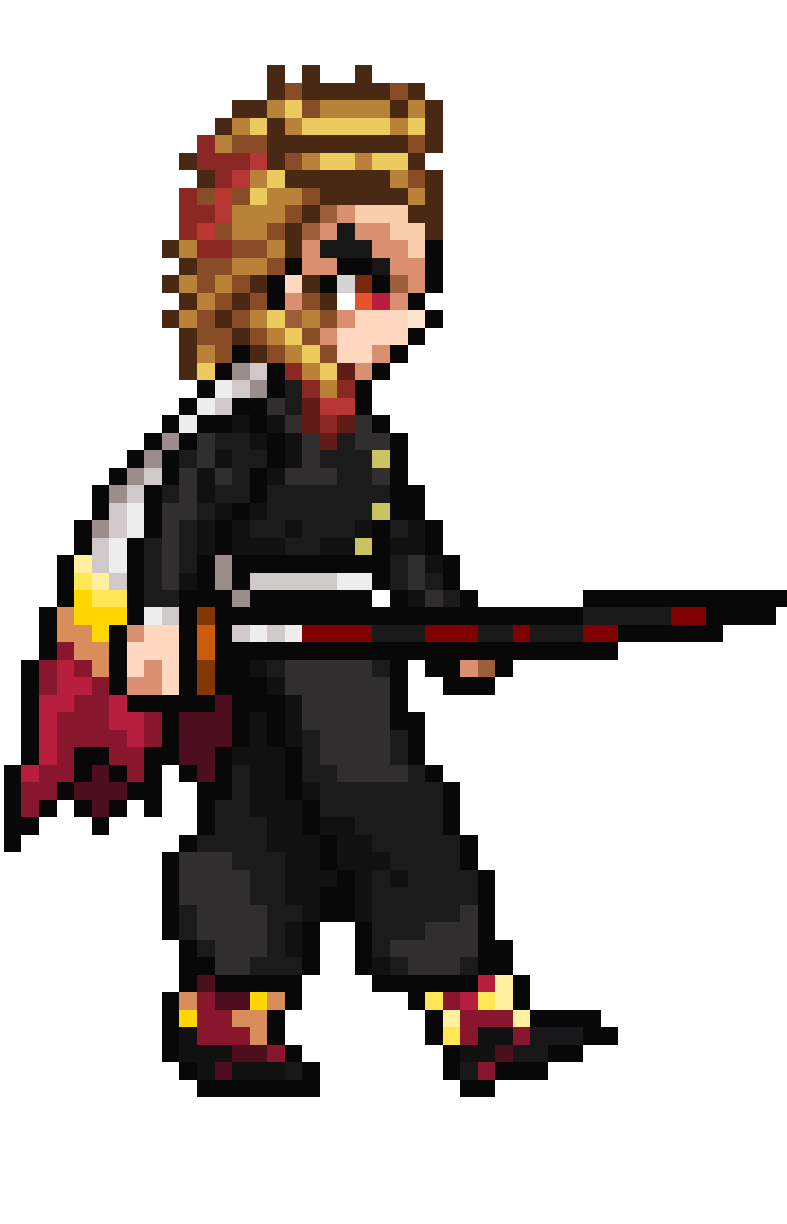
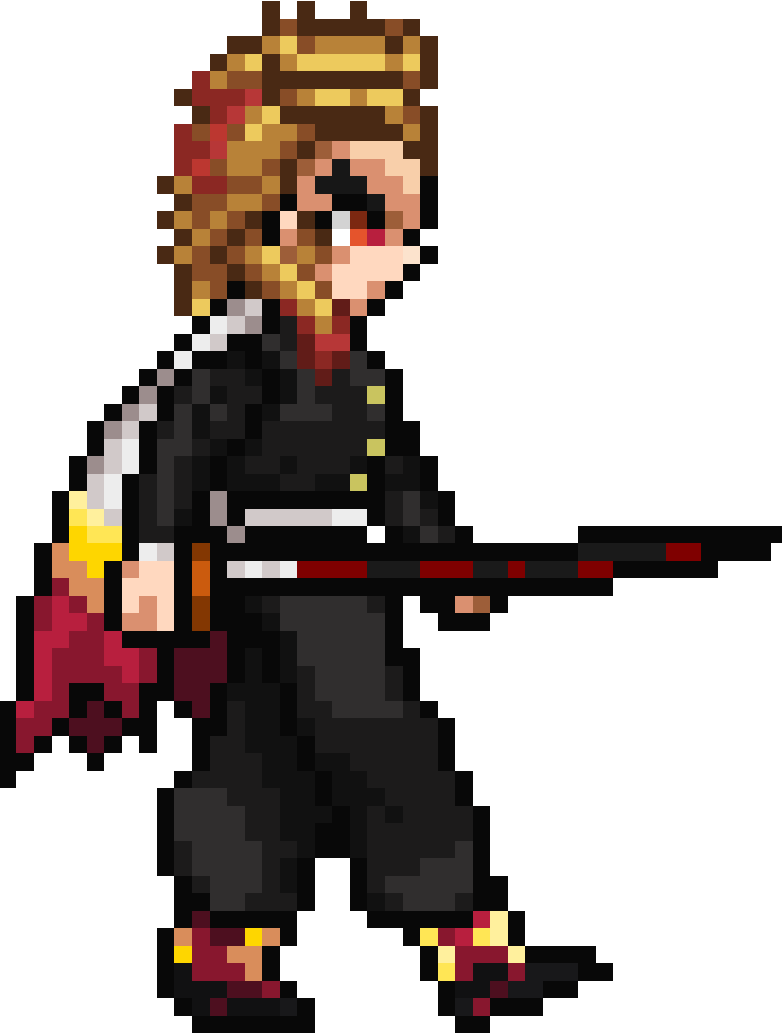
ahmed

Changed region(s): [[0.0, 0.0, 1.0, 1.0], [0.399, 0.6499, 0.491, 0.7118]]

diff --git a/DungeonSlayer.cpp b/DungeonSlayer.cpp
@@ -10,7 +10,21 @@ enum state
 state curr_state = state::idle;
 
 int pagenum = 69;
+char playerstate = 'i';
+/*
 
+     i   idle
+     r   run
+     h   hit
+     b   base
+     z   zmove
+     x   xmove,
+     c   cmove
+     v   vmove
+     d   dead
+     w   walk
+
+*/
 int Player_Health = 100;
 Vector2f velocity = { 0, 0 };
 
@@ -54,7 +68,7 @@ Sprite Room;
 
 // Game functions
 void menu_handler();
-void UpdateAnimationCounter(int maximagecounter);
+void UpdateAnimationCounter(int maximagecounterc);
 void Switch_States();
 void Game_play(RenderWindow& window);
 void update();
@@ -152,21 +166,21 @@ void playerMovement()
    
 }
 
-void setTextures() 
+void setTextures()
 {
     // Menu   
     mainmenubg.loadFromFile("Main Menu.jpg");
     bg.setTexture(mainmenubg);
     bg.setScale(0.5, 0.5);
-    
+
     // Room
     room.loadFromFile("mapV2.png");
     Room.setTexture(room);
     Room.setScale(3.8, 3.333);
-    Room.setOrigin(room.getSize().x/2,room.getSize().y/2 );
-    Room.setPosition(0,178*16);
-    
-    // Player
+    Room.setOrigin(room.getSize().x / 2, room.getSize().y / 2);
+    Room.setPosition(0, 178 * 16);
+
+    //Player
     Idle.loadFromFile("Idle.png");
     Player.setTexture(Idle);
     Player.setScale(0.125, 0.125);
@@ -174,14 +188,17 @@ void setTextures()
     Player.setPosition(-500, 7000);
     for (int i = 0; i < 8; i++) {
         RunAnimation[i].loadFromFile("Run/run" + to_string(i) + ".png");
-    } 
+    }
     for (int i = 0; i < 5; i++) {
         Zmove[i].loadFromFile("Z move/Zmove" + to_string(i) + ".png");
     }
     for (int i = 0; i < 6; i++) {
-       walkAnimation[i].loadFromFile("walk/Walk" + to_string(i) + ".png");
+        walkAnimation[i].loadFromFile("walk/Walk" + to_string(i) + ".png");
     }
 
+    for (int i = 0; i < 5; i++) {
+        BaseAttack[i].loadFromFile("base/Base" + to_string(i) + ".png");
+    }
 }
 
 void checkCollisions()
@@ -219,59 +236,104 @@ void Switch_States()
 
     if ((Keyboard::isKeyPressed(Keyboard::A)  || Keyboard::isKeyPressed(Keyboard::D)  || Keyboard::isKeyPressed(Keyboard::S)  || Keyboard::isKeyPressed(Keyboard::W)) && Keyboard::isKeyPressed(Keyboard::LShift))
     {
-         curr_state = state::run;
+        playerstate = 'r';
+        curr_state = state::run;
     }
      else if (Keyboard::isKeyPressed(Keyboard::A) || Keyboard::isKeyPressed(Keyboard::D) || Keyboard::isKeyPressed(Keyboard::S) || Keyboard::isKeyPressed(Keyboard::W))
      {
+        playerstate = 'w';
         curr_state = state::walk;
      }
-    else
-    {
-        curr_state = state::idle;
-    }
-    if (Keyboard::isKeyPressed(Keyboard::Z))
-    {
+     else
+     {
+        playerstate = 'i';
+          curr_state = state::idle;
+     }
+    
+      if (Keyboard::isKeyPressed(Keyboard::Space))
+     {
+        playerstate = 'b';
+         curr_state = state::base;
+     }
+     if (Keyboard::isKeyPressed(Keyboard::Z))
+     {
+        playerstate = 'z';
         curr_state = state::zmove;
-    } 
-    if (Keyboard::isKeyPressed(Keyboard::X))
-    {
+     } 
+     if (Keyboard::isKeyPressed(Keyboard::X))
+     {
         curr_state = state::xmove;
-    }
-    if (Keyboard::isKeyPressed(Keyboard::C))
-    {
+     }
+     if (Keyboard::isKeyPressed(Keyboard::C))
+     {
         curr_state = state::cmove;
-    }
-    if (Keyboard::isKeyPressed(Keyboard::V))
-    {
+     }
+     if (Keyboard::isKeyPressed(Keyboard::V))
+     {
         curr_state = state::vmove;
-    }
-    if (Player_Health <= 0)
-    {
+     }
+     if (Player_Health <= 0)
+     {
         curr_state = state::dead;
-    }
+     }
+    
  
-    switch (curr_state)
+   /* switch (curr_state)
     {
         case state::run: UpdateAnimationCounter(8); Player.setTexture(RunAnimation[ImageCounter]); break;
         case state::walk: UpdateAnimationCounter(6); Player.setTexture(walkAnimation[ImageCounter]); break;
         case state::idle:; Player.setTexture(Idle); break;
         case state::zmove: UpdateAnimationCounter(5); Player.setTexture(Zmove[ImageCounter]); break;
+        case state::base:  UpdateAnimationCounter(5); Player.setTexture(BaseAttack[ImageCounter]); break;
+    }*/
+    
+    if (playerstate == 'r') {
+        UpdateAnimationCounter(8);
+        Player.setTexture(RunAnimation[ImageCounter]);
     }
+    else if (playerstate == 'w') {
+        UpdateAnimationCounter(6);
+        Player.setTexture(walkAnimation[ImageCounter]);
+    }
+    else if (playerstate == 'i') {
+        Player.setTexture(Idle);
+    }
+    else if (playerstate == 'z') {
+
+            UpdateAnimationCounter(5);
+            Player.setTexture(Zmove[ImageCounter]);
+            Player.setScale(0.15, 0.15);
+        
+
+    }
+    else if (playerstate == 'b') {
+
+        UpdateAnimationCounter(5);
+        Player.setTexture(BaseAttack[ImageCounter]);
+
+
+    }
+   
 }
 
 void UpdateAnimationCounter(int maximagecounter)
 {
-    AnimationCounter += playerdeltatime;
-    if (AnimationCounter >= AnimationSwitchTime)
-    {
-        AnimationCounter = 0;
-        ImageCounter++;
-        if (ImageCounter >= maximagecounter)
+   
+        AnimationCounter += playerdeltatime;
+        if (AnimationCounter >= AnimationSwitchTime)
         {
-            finishedanimationonce = true;
-            ImageCounter = 0;
+            AnimationCounter = 0;
+            ImageCounter++;
+            if (ImageCounter >= maximagecounter)
+            {
+                
+                ImageCounter = 0;
+            }
         }
-    }
+    
+   
+  
+      
 }
 
 void menu_handler()
